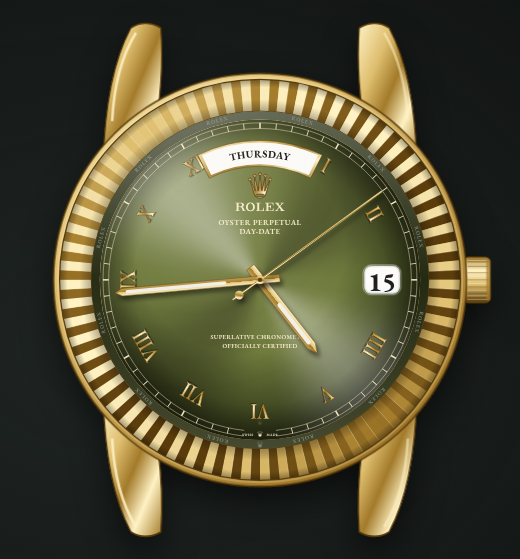
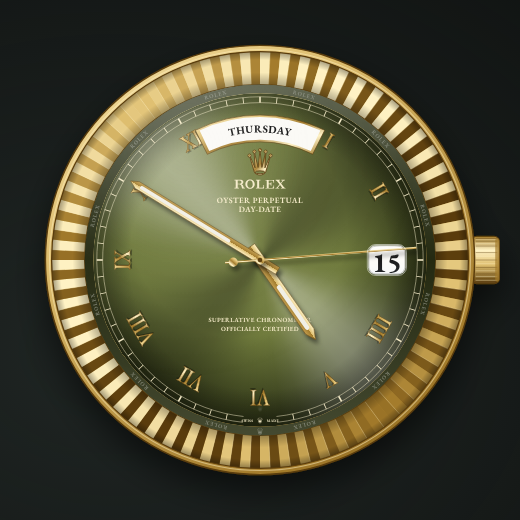
Remove lugs so the watch face is fully round
Only the round case, bezel, crown and Daytona pushers remain. The canvas
is now square and the README screenshots are refreshed.

Claude-Session: https://claude.ai/code/session_01MR7uiZKYXyyZxiVebD44dd

diff --git a/js/watch.js b/js/watch.js
@@ -96,13 +96,6 @@
   function caseBody(metal, opts) {
     const m = METALS[metal];
     let s = '';
-    const lug = (sx, sg) => {
-      const X = (x) => r2(sx * x), Y = (y) => r2(sg * y);
-      return `<path d="M${X(158)} ${Y(118)}C${X(156)} ${Y(186)} ${X(145)} ${Y(226)} ${X(130)} ${Y(254)}Q${X(116)} ${Y(263)} ${X(100)} ${Y(254)}C${X(98)} ${Y(226)} ${X(99)} ${Y(200)} ${X(103)} ${Y(170)}Z" fill="url(#${metal}-lin)" stroke="${m.deep}" stroke-width="1.2"/>` +
-        `<path d="M${X(149)} ${Y(160)}C${X(147)} ${Y(200)} ${X(138)} ${Y(228)} ${X(125)} ${Y(249)}" fill="none" stroke="${m.hi}" stroke-width="2.6" opacity="${sx < 0 ? 0.85 : 0.55}"/>` +
-        `<path d="M${X(130)} ${Y(254)}Q${X(116)} ${Y(263)} ${X(100)} ${Y(254)}" fill="none" stroke="${m.deep}" stroke-width="1.6" opacity=".7"/>`;
-    };
-    s += lug(-1, -1) + lug(1, -1) + lug(-1, 1) + lug(1, 1);
     s += `<circle r="208" fill="url(#${metal}-rad)" stroke="${m.deep}" stroke-width="1.4"/>`;
     s += `<circle r="204" fill="none" stroke="${m.hi}" stroke-width="1" opacity=".5"/>`;
     return s;
@@ -522,7 +515,7 @@
         <feGaussianBlur stdDeviation="2.4" result="b"/><feMerge><feMergeNode in="b"/><feMergeNode in="b"/><feMergeNode in="SourceGraphic"/></feMerge></filter>
     </defs>`;
 
-    let out = `<svg class="watch-svg" viewBox="-262 -282 524 564" xmlns="http://www.w3.org/2000/svg" role="img" aria-label="${model.name} watch face showing the current local time">`;
+    let out = `<svg class="watch-svg" viewBox="-252 -252 504 504" xmlns="http://www.w3.org/2000/svg" role="img" aria-label="${model.name} watch face showing the current local time">`;
     out += defs;
 
 
